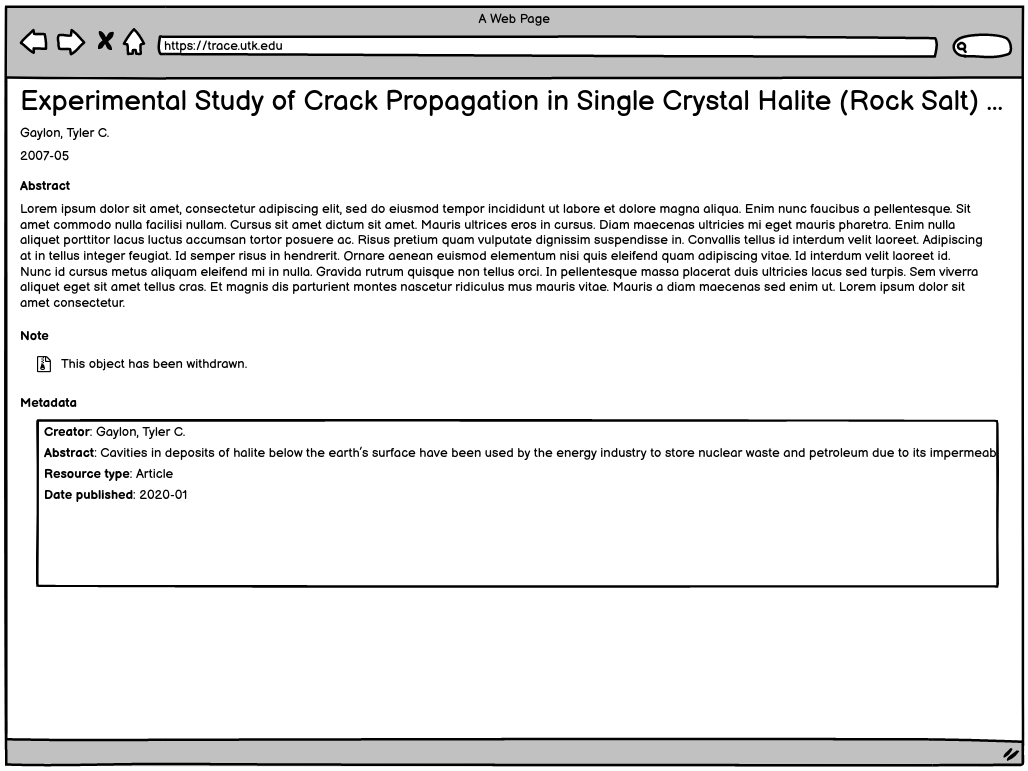
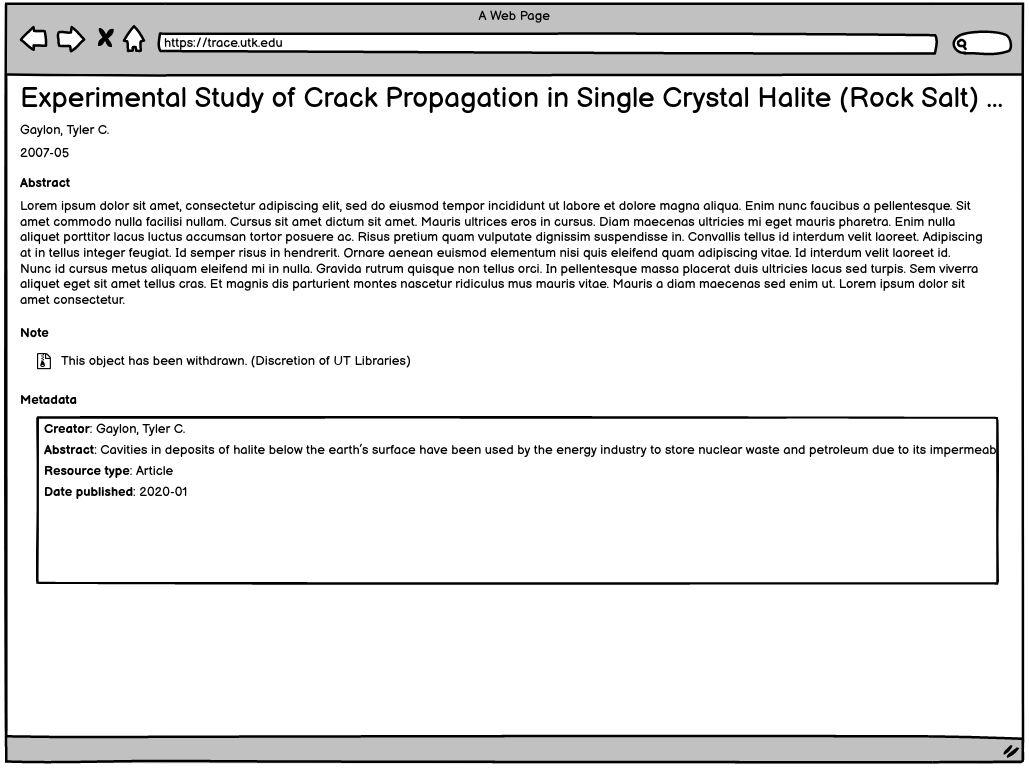
Update tombstone.

Changed region(s): [[0.0, 0.0, 1.0, 0.4062], [0.0311, 0.4375, 1.0, 1.0]]

diff --git a/docs/source/features/tombstone.rst b/docs/source/features/tombstone.rst
@@ -4,19 +4,19 @@ Tombstones and Withdrawn Content
 About
 -----
 
-We have two use cases for making data unavailable: tombstones and withdrawn content.
+We have two use cases for making data unavailable: withdrawal with tombstones and expungement.
 
 What is a Tombstone
 -------------------
 
-In cases where a work has been removed, a tombstone should be inserted into the same URI so that anyone who has cited the
-object can find out why it has been removed.
+In cases where a work has been withdrawn, a tombstone should be inserted into the same URI so that anyone who has cited
+the object can find out why it has been removed.
 
-Standard practice is:
+Standard practice for tombstoning is to:
 
 1. Keep the original metadata for the object that may have been cited.
-2. Add a withdrawl statement explaining why the object was removed.
-3. Cease making the work itself available.
+2. Add the withdrawal statement explaining why the object was removed.
+3. Cease making files related to the work available.
 
 In "The Institutional Repository: Storing and Sharing Digital Scholarship", Blankenship and Haines write:
 
@@ -32,6 +32,18 @@ In "CRAFTING AN INSTITUTIONAL REPOSITORY POLICY", Kati writes:
 
     Twenty-five out of the 30 repositories surveyed use tombstones to indicate the removal of
     content, and 23 of those libraries indicate the reason for removal on the tombstone.
+
+Use Cases for Tombstoning
+-------------------------
+
+When tombstoning an item, one of these rationales should be selected and displayed along with the date of withdrawal:
+
+* Copyright violation
+* Plagiarism
+* Factual inaccuracies or falsified data
+* Legal requirements
+* Discretion of the UT Libraries
+
 
 User Experience
 ---------------
